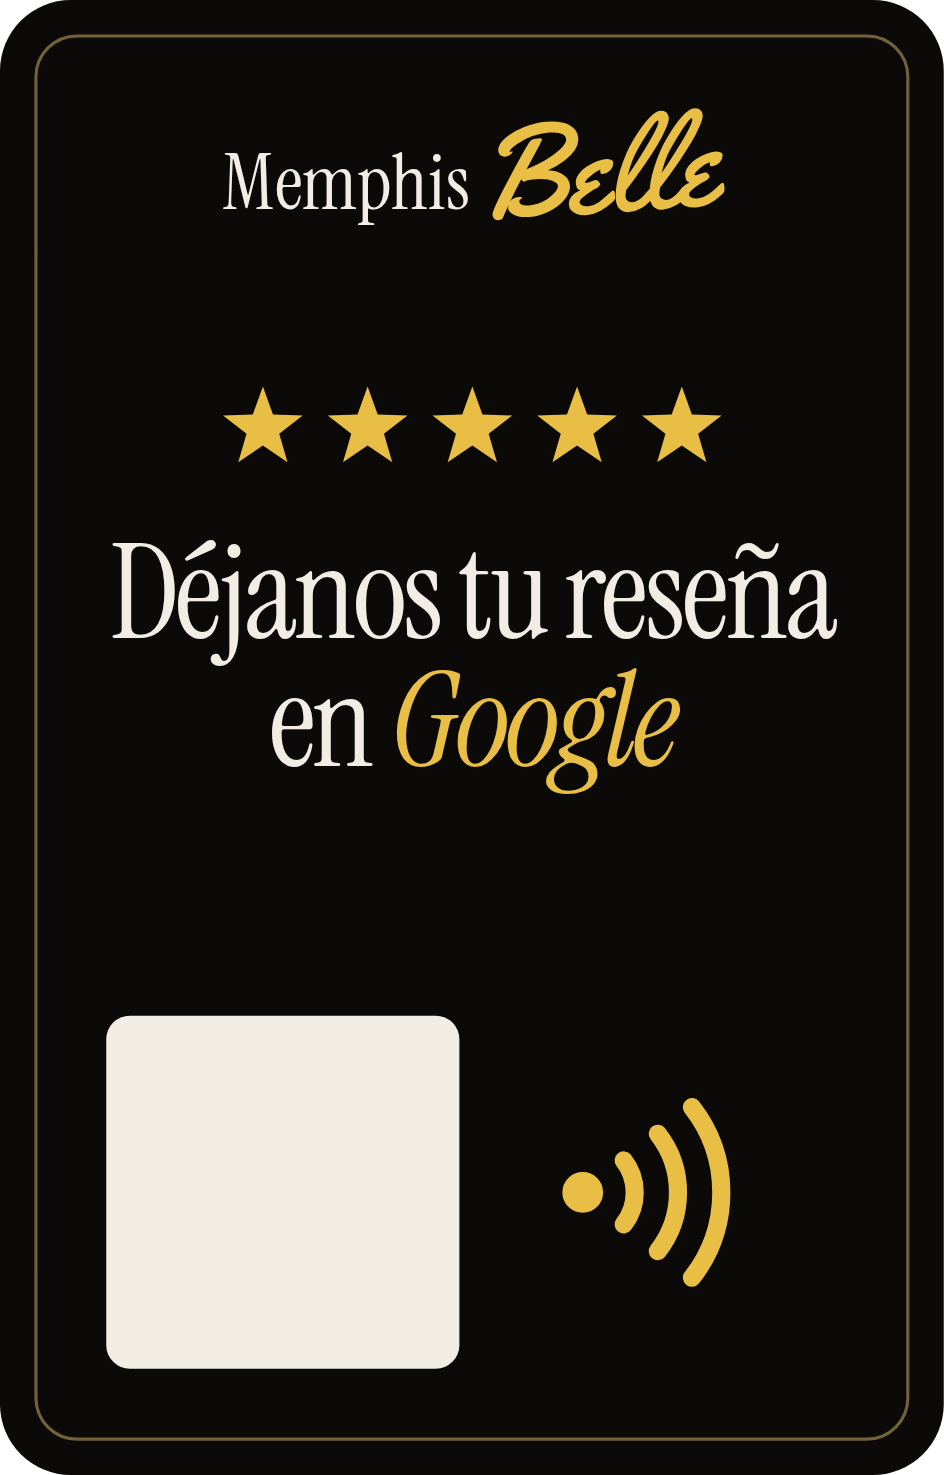
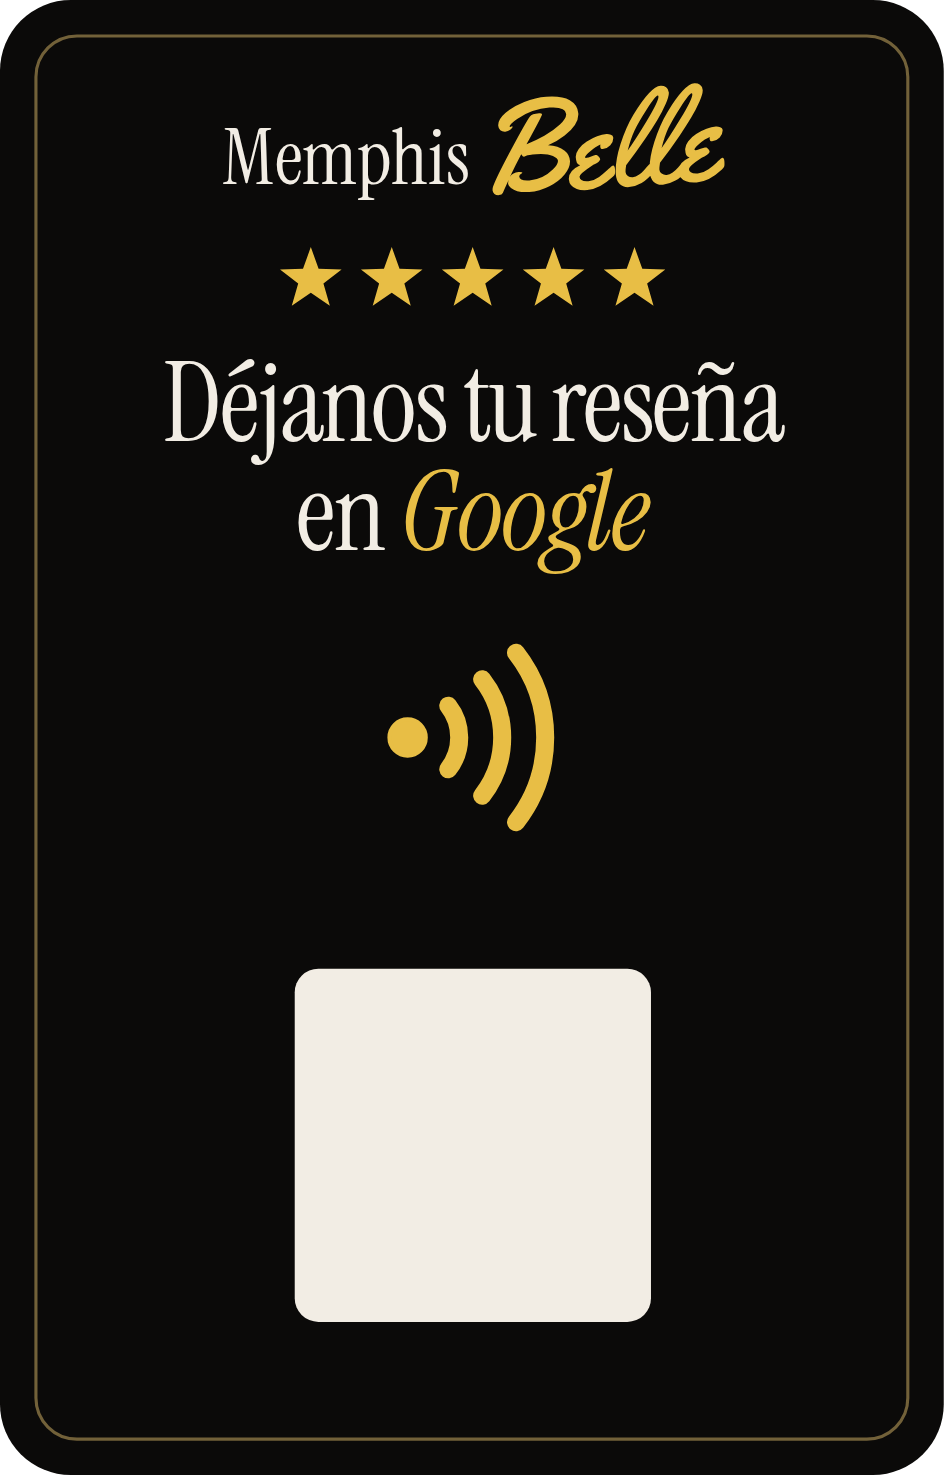
Tarjeta de reseña: símbolo NFC sobre la pastilla (centro de la tarjeta) y QR centrado debajo
Claude-Session: https://claude.ai/code/session_015FWVJHTK1DFuU4oBGvgKEP

diff --git a/tarjetas/tarjeta-resena-es.html b/tarjetas/tarjeta-resena-es.html
@@ -9,20 +9,20 @@
 * { box-sizing: border-box; margin: 0; }
 html, body { width: 80mm; height: 125mm; background: transparent; }
 body { -webkit-print-color-adjust: exact; print-color-adjust: exact; }
-.tarjeta { position: relative; width: 80mm; height: 125mm; border-radius: 6mm; overflow: hidden; background: #0B0A09; color: #F2EDE4; font-family: "Geist", sans-serif; display: flex; flex-direction: column; align-items: center; justify-content: flex-start; padding: 9mm 7mm 9mm; }
+.tarjeta { position: relative; width: 80mm; height: 125mm; border-radius: 6mm; overflow: hidden; background: #0B0A09; color: #F2EDE4; font-family: "Geist", sans-serif; display: flex; flex-direction: column; align-items: center; justify-content: flex-start; padding: 7mm 7mm 0; }
 /* Filete interior en oro viejo, como una placa grabada */
 .tarjeta::before { content: ""; position: absolute; inset: 3mm; border: .35mm solid rgba(201, 169, 97, .55); border-radius: 3.6mm; pointer-events: none; }
 .marca { display: flex; align-items: baseline; justify-content: center; gap: 1.4mm; }
 .marca b { font: 400 6.6mm/1 "Instrument Serif", serif; letter-spacing: -.01em; }
 .marca .belle { height: 8.6mm; width: auto; transform: rotate(-4deg) translateY(.6mm); }
-.centro { text-align: center; margin-top: 13mm; }
-.estrellas { width: 44mm; height: auto; fill: #E8BE45; display: block; margin: 0 auto 4.2mm; }
-h1 { font: 400 11.2mm/.98 "Instrument Serif", serif; letter-spacing: -.025em; }
+.centro { text-align: center; margin-top: 3.5mm; }
+.estrellas { width: 34mm; height: auto; fill: #E8BE45; display: block; margin: 0 auto 2.6mm; }
+h1 { font: 400 9.4mm/.98 "Instrument Serif", serif; letter-spacing: -.025em; }
 h1 em { font-style: italic; color: #E8BE45; }
-.acciones { margin-top: auto; display: grid; grid-template-columns: auto 1fr; align-items: center; gap: 4mm; width: 100%; padding: 0 2mm; }
-.hueco { width: 30mm; height: 30mm; background: #F2EDE4; border-radius: 2mm; }
-.tocar { display: grid; place-items: center; }
-.nfc { width: 22mm; height: 22mm; fill: #E8BE45; stroke: #E8BE45; }
+/* La pastilla NFC está incrustada en el centro de la tarjeta (40 mm × 62,5 mm): el símbolo va justo encima. */
+.nfc { position: absolute; left: 50%; top: 62.5mm; width: 14.7mm; height: 16.6mm; transform: translate(-50%, -50%); fill: #E8BE45; stroke: #E8BE45; }
+/* Hueco liso para pegar la pegatina del QR, centrado bajo el símbolo. */
+.hueco { position: absolute; left: 50%; bottom: 13mm; width: 30mm; height: 30mm; transform: translateX(-50%); background: #F2EDE4; border-radius: 2mm; }
 </style>
 <body>
 <div class="tarjeta">
@@ -31,9 +31,7 @@ h1 em { font-style: italic; color: #E8BE45; }
     <svg class="estrellas" viewBox="-12 -12 124 24" aria-hidden="true"><g transform="translate(0 0)"><polygon points="0.00,-10.00 2.41,-3.32 9.51,-3.09 3.90,1.27 5.88,8.09 0.00,4.10 -5.88,8.09 -3.90,1.27 -9.51,-3.09 -2.41,-3.32"/></g><g transform="translate(25 0)"><polygon points="0.00,-10.00 2.41,-3.32 9.51,-3.09 3.90,1.27 5.88,8.09 0.00,4.10 -5.88,8.09 -3.90,1.27 -9.51,-3.09 -2.41,-3.32"/></g><g transform="translate(50 0)"><polygon points="0.00,-10.00 2.41,-3.32 9.51,-3.09 3.90,1.27 5.88,8.09 0.00,4.10 -5.88,8.09 -3.90,1.27 -9.51,-3.09 -2.41,-3.32"/></g><g transform="translate(75 0)"><polygon points="0.00,-10.00 2.41,-3.32 9.51,-3.09 3.90,1.27 5.88,8.09 0.00,4.10 -5.88,8.09 -3.90,1.27 -9.51,-3.09 -2.41,-3.32"/></g><g transform="translate(100 0)"><polygon points="0.00,-10.00 2.41,-3.32 9.51,-3.09 3.90,1.27 5.88,8.09 0.00,4.10 -5.88,8.09 -3.90,1.27 -9.51,-3.09 -2.41,-3.32"/></g></svg>
     <h1>Déjanos tu reseña<br>en <em>Google</em></h1>
   </div>
-  <div class="acciones">
-    <div class="hueco" role="img" aria-label="Espacio para la pegatina del QR"></div>
-    <div class="tocar"><svg class="nfc" viewBox="0 0 60 60" aria-hidden="true"><circle cx="9" cy="30" r="4.2"/><path d="M18.46 22.61 A12 12 0 0 1 18.46 37.39" fill="none" stroke-width="4.2" stroke-linecap="round"/><path d="M26.34 16.46 A22 22 0 0 1 26.34 43.54" fill="none" stroke-width="4.2" stroke-linecap="round"/><path d="M34.22 10.30 A32 32 0 0 1 34.22 49.70" fill="none" stroke-width="4.2" stroke-linecap="round"/></svg></div>
-  </div>
+  <svg class="nfc" viewBox="3.8 7.2 40.3 45.6" aria-hidden="true"><circle cx="9" cy="30" r="4.2"/><path d="M18.46 22.61 A12 12 0 0 1 18.46 37.39" fill="none" stroke-width="4.2" stroke-linecap="round"/><path d="M26.34 16.46 A22 22 0 0 1 26.34 43.54" fill="none" stroke-width="4.2" stroke-linecap="round"/><path d="M34.22 10.30 A32 32 0 0 1 34.22 49.70" fill="none" stroke-width="4.2" stroke-linecap="round"/></svg>
+  <div class="hueco" role="img" aria-label="Espacio para la pegatina del QR"></div>
 </div>
 </body></html>

diff --git a/tarjetas/tarjeta-resena-en.html b/tarjetas/tarjeta-resena-en.html
@@ -9,20 +9,20 @@
 * { box-sizing: border-box; margin: 0; }
 html, body { width: 80mm; height: 125mm; background: transparent; }
 body { -webkit-print-color-adjust: exact; print-color-adjust: exact; }
-.tarjeta { position: relative; width: 80mm; height: 125mm; border-radius: 6mm; overflow: hidden; background: #0B0A09; color: #F2EDE4; font-family: "Geist", sans-serif; display: flex; flex-direction: column; align-items: center; justify-content: flex-start; padding: 9mm 7mm 9mm; }
+.tarjeta { position: relative; width: 80mm; height: 125mm; border-radius: 6mm; overflow: hidden; background: #0B0A09; color: #F2EDE4; font-family: "Geist", sans-serif; display: flex; flex-direction: column; align-items: center; justify-content: flex-start; padding: 7mm 7mm 0; }
 /* Filete interior en oro viejo, como una placa grabada */
 .tarjeta::before { content: ""; position: absolute; inset: 3mm; border: .35mm solid rgba(201, 169, 97, .55); border-radius: 3.6mm; pointer-events: none; }
 .marca { display: flex; align-items: baseline; justify-content: center; gap: 1.4mm; }
 .marca b { font: 400 6.6mm/1 "Instrument Serif", serif; letter-spacing: -.01em; }
 .marca .belle { height: 8.6mm; width: auto; transform: rotate(-4deg) translateY(.6mm); }
-.centro { text-align: center; margin-top: 13mm; }
-.estrellas { width: 44mm; height: auto; fill: #E8BE45; display: block; margin: 0 auto 4.2mm; }
-h1 { font: 400 11.2mm/.98 "Instrument Serif", serif; letter-spacing: -.025em; }
+.centro { text-align: center; margin-top: 3.5mm; }
+.estrellas { width: 34mm; height: auto; fill: #E8BE45; display: block; margin: 0 auto 2.6mm; }
+h1 { font: 400 9.4mm/.98 "Instrument Serif", serif; letter-spacing: -.025em; }
 h1 em { font-style: italic; color: #E8BE45; }
-.acciones { margin-top: auto; display: grid; grid-template-columns: auto 1fr; align-items: center; gap: 4mm; width: 100%; padding: 0 2mm; }
-.hueco { width: 30mm; height: 30mm; background: #F2EDE4; border-radius: 2mm; }
-.tocar { display: grid; place-items: center; }
-.nfc { width: 22mm; height: 22mm; fill: #E8BE45; stroke: #E8BE45; }
+/* La pastilla NFC está incrustada en el centro de la tarjeta (40 mm × 62,5 mm): el símbolo va justo encima. */
+.nfc { position: absolute; left: 50%; top: 62.5mm; width: 14.7mm; height: 16.6mm; transform: translate(-50%, -50%); fill: #E8BE45; stroke: #E8BE45; }
+/* Hueco liso para pegar la pegatina del QR, centrado bajo el símbolo. */
+.hueco { position: absolute; left: 50%; bottom: 13mm; width: 30mm; height: 30mm; transform: translateX(-50%); background: #F2EDE4; border-radius: 2mm; }
 </style>
 <body>
 <div class="tarjeta">
@@ -31,9 +31,7 @@ h1 em { font-style: italic; color: #E8BE45; }
     <svg class="estrellas" viewBox="-12 -12 124 24" aria-hidden="true"><g transform="translate(0 0)"><polygon points="0.00,-10.00 2.41,-3.32 9.51,-3.09 3.90,1.27 5.88,8.09 0.00,4.10 -5.88,8.09 -3.90,1.27 -9.51,-3.09 -2.41,-3.32"/></g><g transform="translate(25 0)"><polygon points="0.00,-10.00 2.41,-3.32 9.51,-3.09 3.90,1.27 5.88,8.09 0.00,4.10 -5.88,8.09 -3.90,1.27 -9.51,-3.09 -2.41,-3.32"/></g><g transform="translate(50 0)"><polygon points="0.00,-10.00 2.41,-3.32 9.51,-3.09 3.90,1.27 5.88,8.09 0.00,4.10 -5.88,8.09 -3.90,1.27 -9.51,-3.09 -2.41,-3.32"/></g><g transform="translate(75 0)"><polygon points="0.00,-10.00 2.41,-3.32 9.51,-3.09 3.90,1.27 5.88,8.09 0.00,4.10 -5.88,8.09 -3.90,1.27 -9.51,-3.09 -2.41,-3.32"/></g><g transform="translate(100 0)"><polygon points="0.00,-10.00 2.41,-3.32 9.51,-3.09 3.90,1.27 5.88,8.09 0.00,4.10 -5.88,8.09 -3.90,1.27 -9.51,-3.09 -2.41,-3.32"/></g></svg>
     <h1>Leave us a<br>review on <em>Google</em></h1>
   </div>
-  <div class="acciones">
-    <div class="hueco" role="img" aria-label="Espacio para la pegatina del QR"></div>
-    <div class="tocar"><svg class="nfc" viewBox="0 0 60 60" aria-hidden="true"><circle cx="9" cy="30" r="4.2"/><path d="M18.46 22.61 A12 12 0 0 1 18.46 37.39" fill="none" stroke-width="4.2" stroke-linecap="round"/><path d="M26.34 16.46 A22 22 0 0 1 26.34 43.54" fill="none" stroke-width="4.2" stroke-linecap="round"/><path d="M34.22 10.30 A32 32 0 0 1 34.22 49.70" fill="none" stroke-width="4.2" stroke-linecap="round"/></svg></div>
-  </div>
+  <svg class="nfc" viewBox="3.8 7.2 40.3 45.6" aria-hidden="true"><circle cx="9" cy="30" r="4.2"/><path d="M18.46 22.61 A12 12 0 0 1 18.46 37.39" fill="none" stroke-width="4.2" stroke-linecap="round"/><path d="M26.34 16.46 A22 22 0 0 1 26.34 43.54" fill="none" stroke-width="4.2" stroke-linecap="round"/><path d="M34.22 10.30 A32 32 0 0 1 34.22 49.70" fill="none" stroke-width="4.2" stroke-linecap="round"/></svg>
+  <div class="hueco" role="img" aria-label="Espacio para la pegatina del QR"></div>
 </div>
 </body></html>
